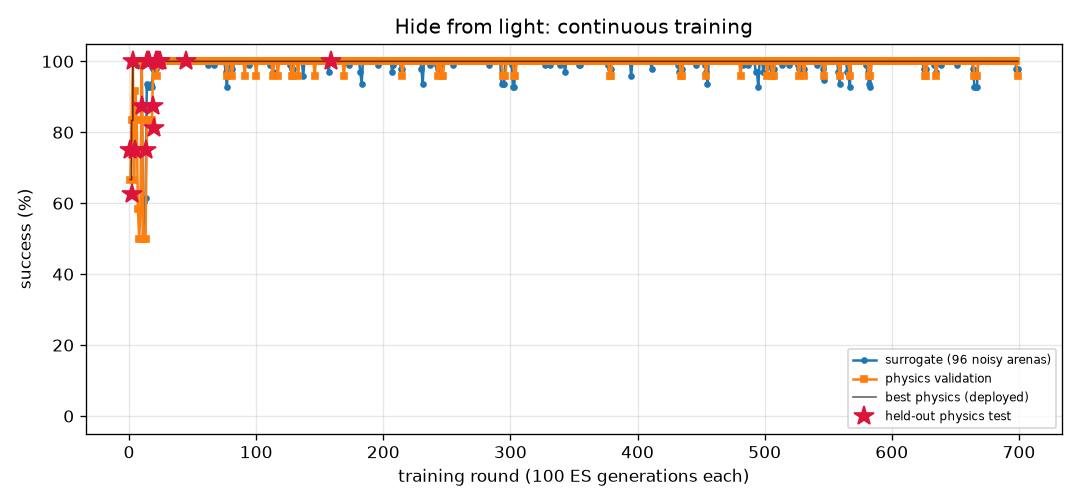
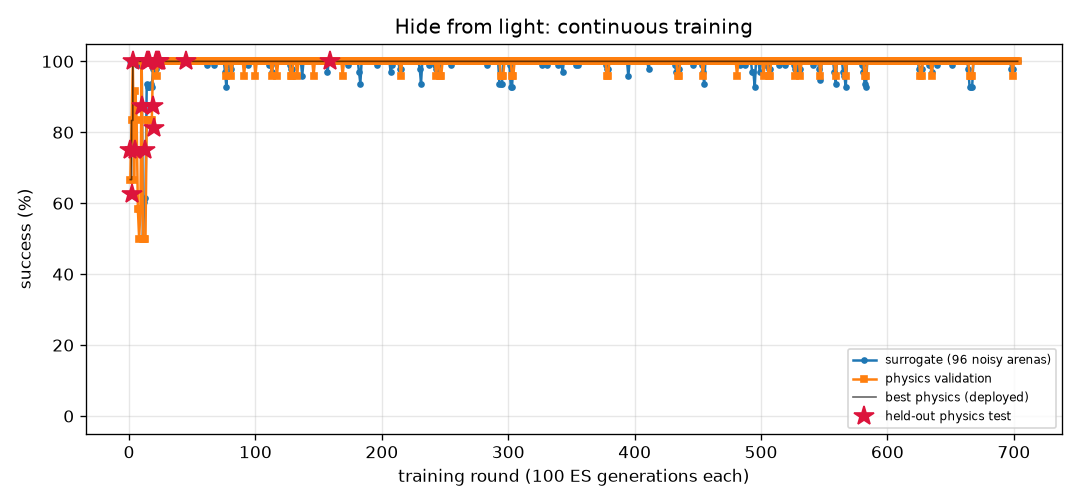
FlyLab: continuous training progress (daily review 2026-11-18)

diff --git a/projects/09_flylab/training/light_avoid/REPORT.md b/projects/09_flylab/training/light_avoid/REPORT.md
@@ -1,14 +1,14 @@
 # Hide from light (`light_avoid`) — training report
 
-*Auto-generated by `train_brains.py`, last updated 2026-11-18T18:40:17.*
+*Auto-generated by `train_brains.py`, last updated 2026-11-18T19:13:52.*
 
 ![curve](curve.png)
 
 | | |
 |---|---|
-| rounds | 699 |
-| ES generations | 69900 |
-| physics runs | 17048 |
+| rounds | 703 |
+| ES generations | 70300 |
+| physics runs | 17144 |
 | status | **optimal** |
 | best brain | round 159: physics validation **100%** on 24 arenas, surrogate 100% |
 | held-out physics test | **100%** on 32 unseen arenas (95% CI 89%-100%) (errors: [14.4, 56.1, 58.0, 57.9, 57.5, 14.0, 14.4, 56.6, 56.8, 13.3, 14.1, 56.6, 57.6, 13.1, 57.3, 55.9, 57.2, 55.0, 55.2, 53.9, 55.2, 12.4, 53.8, 53.7, 14.1, 13.7, 55.0, 57.8, 56.2, 13.1, 52.8, 56.5]) |
@@ -17,10 +17,6 @@ Physics error per arena: mm gained away from source (> 6 without first approachi
 
 | round | level | gens | sigma | surrogate | physics val | val errors | test | note |
 |---:|---:|---:|---:|---:|---:|---|---:|---|
-| 660 | 3 | 66000 | 0.024 | 100% | 100% | [42.4, 43.9, 42.7, 41.9, 45.4, 42.8, 41.3, 14.5, 41.8, 13.2, 45.4, 45.6, 14.4, 45.8, 43.8, 42.8, 14.2, 45.5, 44.4, 14.4, 43.9, 44.5, 40.5, 45.8] |  |  |
-| 661 | 3 | 66100 | 0.024 | 100% | 100% | [40.9, 40.8, 40.3, 41.7, 44.1, 41.9, 38.5, 14.5, 39.2, 13.6, 42.0, 44.0, 14.4, 42.5, 41.1, 43.2, 14.2, 43.9, 41.9, 14.4, 43.9, 42.4, 38.2, 44.2] |  |  |
-| 662 | 3 | 66200 | 0.024 | 100% | 100% | [44.7, 45.4, 45.6, 44.7, 41.7, 44.6, 45.8, 14.5, 42.5, 13.4, 44.8, 41.9, 14.4, 44.9, 45.6, 44.5, 14.2, 42.3, 45.2, 14.4, 43.3, 44.6, 45.7, 40.8] |  |  |
-| 663 | 3 | 66300 | 0.024 | 100% | 100% | [48.9, 50.6, 50.5, 48.7, 45.5, 48.6, 50.9, 14.5, 41.8, 13.5, 46.0, 44.8, 14.4, 47.5, 50.6, 47.7, 14.2, 47.3, 49.9, 14.4, 42.4, 48.0, 50.5, 43.8] |  | restart from best |
 | 664 | 3 | 66400 | 0.024 | 98% | 100% | [37.7, 38.5, 38.0, 38.3, 41.0, 38.4, 35.4, 14.5, 39.6, 13.2, 40.7, 41.2, 14.4, 41.1, 38.0, 6.3, 14.2, 39.7, 37.8, 14.4, 8.2, 41.1, 34.6, 40.4] |  |  |
 | 665 | 3 | 66500 | 0.025 | 93% | 96% | [5.9, 46.3, 45.7, 7.4, 48.6, 7.9, 43.8, 14.5, 47.8, 13.5, 48.7, 48.8, 14.4, 49.3, 45.9, 9.1, 14.2, 48.9, 46.1, 14.4, 8.8, 48.5, 44.0, 48.8] |  |  |
 | 666 | 3 | 66600 | 0.028 | 93% | 96% | [6.2, 52.0, 51.9, 7.3, 51.0, 4.4, 50.4, 14.5, 36.5, 13.5, 49.6, 50.7, 14.4, 49.2, 52.0, 9.0, 14.2, 51.4, 52.5, 14.4, 8.7, 49.1, 49.9, 50.1] |  |  |
@@ -57,3 +53,7 @@ Physics error per arena: mm gained away from source (> 6 without first approachi
 | 697 | 3 | 69700 | 0.024 | 100% | 100% | [55.8, 58.2, 58.2, 56.3, 56.0, 55.4, 57.6, 14.5, 12.9, 13.4, 54.5, 55.7, 14.4, 53.5, 58.3, 55.3, 14.2, 56.7, 58.4, 14.4, 55.3, 54.5, 57.2, 54.8] |  |  |
 | 698 | 3 | 69800 | 0.024 | 98% | 100% | [49.8, 49.5, 49.7, 49.3, 44.8, 49.1, 50.3, 14.5, 13.0, 13.4, 10.2, 43.7, 14.4, 37.7, 49.7, 49.8, 14.2, 45.7, 49.8, 14.4, 49.7, 11.2, 50.3, 43.3] |  |  |
 | 699 | 3 | 69900 | 0.025 | 98% | 96% | [46.8, 49.0, 48.9, 47.5, 46.8, 47.4, 48.3, 14.5, 13.0, 13.4, 10.2, 46.3, 14.4, 8.0, 49.1, 46.8, 14.2, 47.3, 49.6, 14.4, 47.8, 11.3, 47.6, 45.8] |  | restart from best |
+| 700 | 3 | 70000 | 0.024 | 100% | 100% | [52.4, 53.7, 53.5, 52.6, 53.6, 53.1, 52.3, 14.5, 51.6, 13.4, 53.5, 53.4, 14.3, 51.7, 53.7, 52.7, 14.2, 53.9, 54.1, 14.4, 52.2, 53.4, 51.9, 52.9] |  |  |
+| 701 | 3 | 70100 | 0.024 | 100% | 100% | [49.8, 53.5, 52.6, 50.7, 54.6, 51.2, 51.4, 14.5, 51.6, 13.2, 53.7, 54.3, 14.4, 52.1, 53.0, 52.1, 14.2, 54.5, 53.3, 14.4, 50.9, 53.4, 51.7, 54.2] |  |  |
+| 702 | 3 | 70200 | 0.024 | 100% | 100% | [41.0, 43.1, 39.9, 42.5, 45.7, 40.4, 38.0, 14.5, 41.7, 13.3, 40.0, 44.5, 14.4, 41.5, 40.8, 41.3, 14.2, 45.8, 41.1, 14.4, 42.0, 42.4, 38.3, 46.0] |  |  |
+| 703 | 3 | 70300 | 0.024 | 100% | 100% | [56.9, 60.2, 60.1, 57.2, 58.5, 57.6, 58.9, 14.5, 56.6, 13.4, 59.2, 58.3, 14.4, 59.0, 59.9, 57.3, 14.2, 59.3, 60.1, 14.4, 56.5, 59.5, 58.7, 57.1] |  | restart from best |

diff --git a/projects/09_flylab/training/odor_avoid/REPORT.md b/projects/09_flylab/training/odor_avoid/REPORT.md
@@ -1,14 +1,14 @@
 # Escape a bad smell (`odor_avoid`) — training report
 
-*Auto-generated by `train_brains.py`, last updated 2026-11-18T18:39:41.*
+*Auto-generated by `train_brains.py`, last updated 2026-11-18T18:56:32.*
 
 ![curve](curve.png)
 
 | | |
 |---|---|
-| rounds | 987 |
-| ES generations | 98700 |
-| physics runs | 20994 |
+| rounds | 989 |
+| ES generations | 98900 |
+| physics runs | 21042 |
 | status | **optimal** |
 | best brain | round 373: physics validation **100%** on 24 arenas, surrogate 97% |
 | held-out physics test | **97%** on 32 unseen arenas (95% CI 84%-99%) (errors: [62.0, 57.4, 62.6, 61.9, 59.0, 61.6, 56.5, 60.7, 31.7, 60.9, 63.1, 57.1, 61.1, 62.1, 61.5, 60.2, 62.2, 55.2, 62.1, 54.2, 61.3, 62.0, 58.0, 61.9, 59.8, 56.5, 56.3, 56.4, 56.3, 57.7, 61.9, 32.4]) |
@@ -17,8 +17,6 @@ Physics error per arena: mm gained away from source (> 6 without first approachi
 
 | round | level | gens | sigma | surrogate | physics val | val errors | test | note |
 |---:|---:|---:|---:|---:|---:|---|---:|---|
-| 948 | 3 | 94800 | 0.027 | 98% | 100% | [61.8, 59.5, 56.4, 60.6, 60.9, 61.8, 62.2, 36.9, 62.4, 32.3, 11.7, 62.2, 49.2, 55.4, 44.3, 61.0, 61.7, 62.0, 51.1, 60.0, 62.3, 52.8, 57.3, 61.1] |  |  |
-| 949 | 3 | 94900 | 0.025 | 94% | 100% | [60.9, 57.6, 56.4, 60.8, 59.8, 60.8, 62.0, 60.2, 61.7, 58.5, 18.7, 61.0, 44.1, 54.1, 33.9, 61.1, 61.4, 60.9, 47.7, 59.3, 61.3, 61.4, 60.8, 58.9] |  | restart from best |
 | 950 | 3 | 95000 | 0.026 | 94% | 96% | [62.6, 61.1, 55.8, 61.4, 61.5, 62.4, 60.5, 59.8, 61.8, 48.8, 61.2, 62.1, 51.9, 55.7, 32.5, 62.3, 62.4, 62.1, 55.0, 60.0, 61.9, 50.7, 56.5, 49.9] |  |  |
 | 951 | 3 | 95100 | 0.028 | 95% | 96% | [61.8, 56.7, 56.4, 59.7, 61.8, 59.5, 61.6, 28.9, 61.9, 47.5, 61.9, 61.4, 54.7, 56.4, 42.3, 60.9, 61.8, 60.2, 54.7, 56.4, 62.0, 32.5, 59.3, 43.4] |  |  |
 | 952 | 3 | 95200 | 0.027 | 96% | 96% | [60.5, 56.9, 57.6, 57.0, 62.1, 61.1, 61.7, 30.0, 61.5, 58.6, 60.8, 61.6, 54.6, 58.0, 45.3, 61.1, 61.7, 60.8, 54.5, 56.0, 61.9, 60.7, 57.1, 47.8] |  |  |
@@ -57,3 +55,5 @@ Physics error per arena: mm gained away from source (> 6 without first approachi
 | 985 | 3 | 98500 | 0.026 | 95% | 100% | [61.1, 59.5, 55.4, 59.9, 61.5, 60.7, 61.5, 29.1, 61.1, 37.7, 31.8, 61.6, 51.1, 55.1, 21.3, 60.9, 60.9, 60.4, 51.8, 55.9, 61.6, 50.7, 60.2, 42.7] |  | restart from best |
 | 986 | 3 | 98600 | 0.026 | 96% | 96% | [62.6, 57.9, 56.4, 61.4, 62.9, 60.9, 61.5, 51.0, 60.9, 60.3, 61.2, 62.5, 52.0, 55.8, 26.1, 61.9, 62.3, 61.6, 55.4, 57.0, 61.9, 62.1, 58.7, 49.5] |  |  |
 | 987 | 3 | 98700 | 0.026 | 98% | 100% | [62.8, 57.5, 56.4, 60.9, 62.4, 61.4, 61.9, 42.2, 59.9, 61.8, 62.0, 62.0, 51.0, 56.3, 41.9, 61.8, 62.1, 61.0, 54.0, 55.3, 61.9, 62.5, 58.2, 53.5] |  |  |
+| 988 | 3 | 98800 | 0.025 | 96% | 96% | [63.0, 55.4, 56.3, 58.3, 63.1, 62.1, 62.0, 60.7, 59.8, 61.2, 62.3, 62.3, 54.8, 56.5, 30.6, 62.9, 62.0, 63.0, 55.0, 55.7, 61.9, 62.2, 60.9, 62.4] |  |  |
+| 989 | 3 | 98900 | 0.026 | 98% | 96% | [62.9, 58.6, 55.9, 57.4, 62.4, 61.6, 61.8, 54.3, 59.8, 60.7, 61.4, 61.7, 51.0, 54.9, 0.6, 62.7, 62.1, 61.4, 51.5, 54.4, 62.1, 62.3, 57.0, 61.5] |  | restart from best |

diff --git a/projects/09_flylab/training/light_seek/REPORT.md b/projects/09_flylab/training/light_seek/REPORT.md
@@ -1,14 +1,14 @@
 # Walk toward light (`light_seek`) — training report
 
-*Auto-generated by `train_brains.py`, last updated 2026-11-18T16:15:52.*
+*Auto-generated by `train_brains.py`, last updated 2026-11-18T19:12:04.*
 
 ![curve](curve.png)
 
 | | |
 |---|---|
-| rounds | 527 |
-| ES generations | 52700 |
-| physics runs | 9528 |
+| rounds | 528 |
+| ES generations | 52800 |
+| physics runs | 9552 |
 | status | **optimal** |
 | best brain | round 375: physics validation **100%** on 24 arenas, surrogate 100% |
 | held-out physics test | **100%** on 32 unseen arenas (95% CI 89%-100%) (errors: [0.57, 0.54, 0.53, 0.57, 0.55, 0.56, 0.59, 0.56, 0.53, 0.56, 0.71, 0.56, 0.55, 0.54, 0.53, 0.54, 0.54, 0.55, 0.52, 0.65, 0.64, 0.7, 0.58, 0.57, 0.6, 0.62, 0.55, 0.88, 0.54, 0.52, 0.62, 0.57]) |
@@ -17,7 +17,6 @@ Physics error per arena: mm from target at the end (< 1.5 and standing still = s
 
 | round | level | gens | sigma | surrogate | physics val | val errors | test | note |
 |---:|---:|---:|---:|---:|---:|---|---:|---|
-| 488 | 3 | 48800 | 0.024 | 100% | 100% | [1.03, 0.59, 0.65, 0.53, 0.58, 0.7, 0.63, 0.53, 0.69, 0.57, 0.57, 0.65, 0.63, 0.72, 0.54, 0.68, 0.57, 0.69, 0.52, 0.59, 0.63, 1.31, 0.71, 0.91] |  |  |
 | 489 | 3 | 48900 | 0.024 | 100% | 100% | [0.63, 0.58, 0.62, 0.61, 0.59, 0.6, 0.57, 0.64, 0.68, 0.63, 0.66, 0.61, 0.67, 1.29, 0.64, 0.64, 0.59, 0.64, 0.6, 0.65, 0.68, 0.58, 0.66, 0.78] |  |  |
 | 490 | 3 | 49000 | 0.024 | 100% | 100% | [0.55, 0.5, 0.62, 0.96, 0.51, 0.64, 0.54, 0.56, 0.52, 0.57, 0.62, 0.65, 0.5, 0.57, 0.49, 0.49, 0.5, 0.61, 0.56, 0.6, 0.56, 0.61, 0.69, 0.54] |  |  |
 | 491 | 3 | 49100 | 0.024 | 100% | 100% | [0.52, 0.64, 0.59, 0.7, 0.62, 0.56, 0.55, 0.6, 0.59, 0.51, 0.54, 0.48, 0.55, 0.52, 0.5, 0.48, 0.54, 0.6, 0.58, 0.61, 0.52, 0.53, 0.59, 0.5] |  | restart from best |
@@ -57,3 +56,4 @@ Physics error per arena: mm from target at the end (< 1.5 and standing still = s
 | 525 | 3 | 52500 | 0.024 | 100% | 96% | [0.59, 0.57, 0.54, 0.68, 0.48, 0.61, 0.63, 2.47, 0.63, 0.56, 0.66, 0.7, 0.75, 0.64, 0.7, 0.65, 0.59, 0.53, 0.6, 0.61, 0.65, 0.65, 0.61, 0.68] |  |  |
 | 526 | 3 | 52600 | 0.024 | 100% | 92% | [0.48, 0.57, 0.45, 0.48, 0.52, 1.08, 0.45, 1.07, 2.5, 0.61, 0.47, 1.35, 0.53, 0.45, 0.51, 0.48, 0.52, 0.48, 0.55, 0.62, 0.5, 1.0, 0.44, 0.49] |  |  |
 | 527 | 3 | 52700 | 0.024 | 100% | 96% | [0.61, 0.58, 0.64, 0.54, 0.58, 0.6, 0.61, 0.62, 3.78, 0.58, 0.59, 0.65, 0.65, 0.62, 0.63, 0.6, 0.63, 0.56, 0.53, 0.6, 0.74, 0.55, 0.86, 0.58] |  | restart from best |
+| 528 | 3 | 52800 | 0.024 | 100% | 92% | [2.35, 0.54, 0.48, 0.95, 0.49, 1.06, 0.51, 0.65, 0.5, 0.52, 2.61, 0.56, 0.67, 0.63, 0.74, 0.59, 0.5, 0.73, 0.59, 0.52, 0.54, 0.59, 0.73, 0.5] |  |  |

diff --git a/projects/09_flylab/training/TRAINING.md b/projects/09_flylab/training/TRAINING.md
@@ -1,6 +1,6 @@
 # FlyLab brains — continuous training log
 
-*Auto-generated by `train_brains.py`, last updated 2026-11-18T18:40:17.*
+*Auto-generated by `train_brains.py`, last updated 2026-11-18T19:13:52.*
 
 Every skill has its own brain and its own training process: surrogate ES rounds, physics validation in MuJoCo, keep-the-best selection, and a held-out physics test that is never used for selection. See each skill's report for its full round-by-round history. Mastery is progressive: passing a level (100% physics validation, >=95% surrogate) doubles the validation and test arena sets; a brain is **optimal** once it holds up at level 3 (>=95% of 24 validation arenas) AND scores >=90% on the 32 held-out test arenas. Test columns show 95% Wilson confidence intervals.
 
@@ -10,6 +10,6 @@ Every skill has its own brain and its own training process: surrogate ES rounds,
 | [Turn in place](turn/REPORT.md) | 1142 | 114200 | 27654 | 100% | 100% of 24 | 97% of 32 (CI 84-99%) | **optimal** |
 | [Go to a location](goto/REPORT.md) | 326 | 32600 | 7774 | 100% | 100% of 24 | 100% of 32 (CI 89-100%) | **optimal** |
 | [Find food by smell](odor_seek/REPORT.md) | 265 | 26500 | 5854 | 100% | 100% of 24 | 100% of 32 (CI 89-100%) | **optimal** |
-| [Escape a bad smell](odor_avoid/REPORT.md) | 987 | 98700 | 20994 | 97% | 100% of 24 | 97% of 32 (CI 84-99%) | **optimal** |
-| [Walk toward light](light_seek/REPORT.md) | 527 | 52700 | 9528 | 100% | 100% of 24 | 100% of 32 (CI 89-100%) | **optimal** |
-| [Hide from light](light_avoid/REPORT.md) | 699 | 69900 | 17048 | 100% | 100% of 24 | 100% of 32 (CI 89-100%) | **optimal** |
+| [Escape a bad smell](odor_avoid/REPORT.md) | 989 | 98900 | 21042 | 97% | 100% of 24 | 97% of 32 (CI 84-99%) | **optimal** |
+| [Walk toward light](light_seek/REPORT.md) | 528 | 52800 | 9552 | 100% | 100% of 24 | 100% of 32 (CI 89-100%) | **optimal** |
+| [Hide from light](light_avoid/REPORT.md) | 703 | 70300 | 17144 | 100% | 100% of 24 | 100% of 32 (CI 89-100%) | **optimal** |
